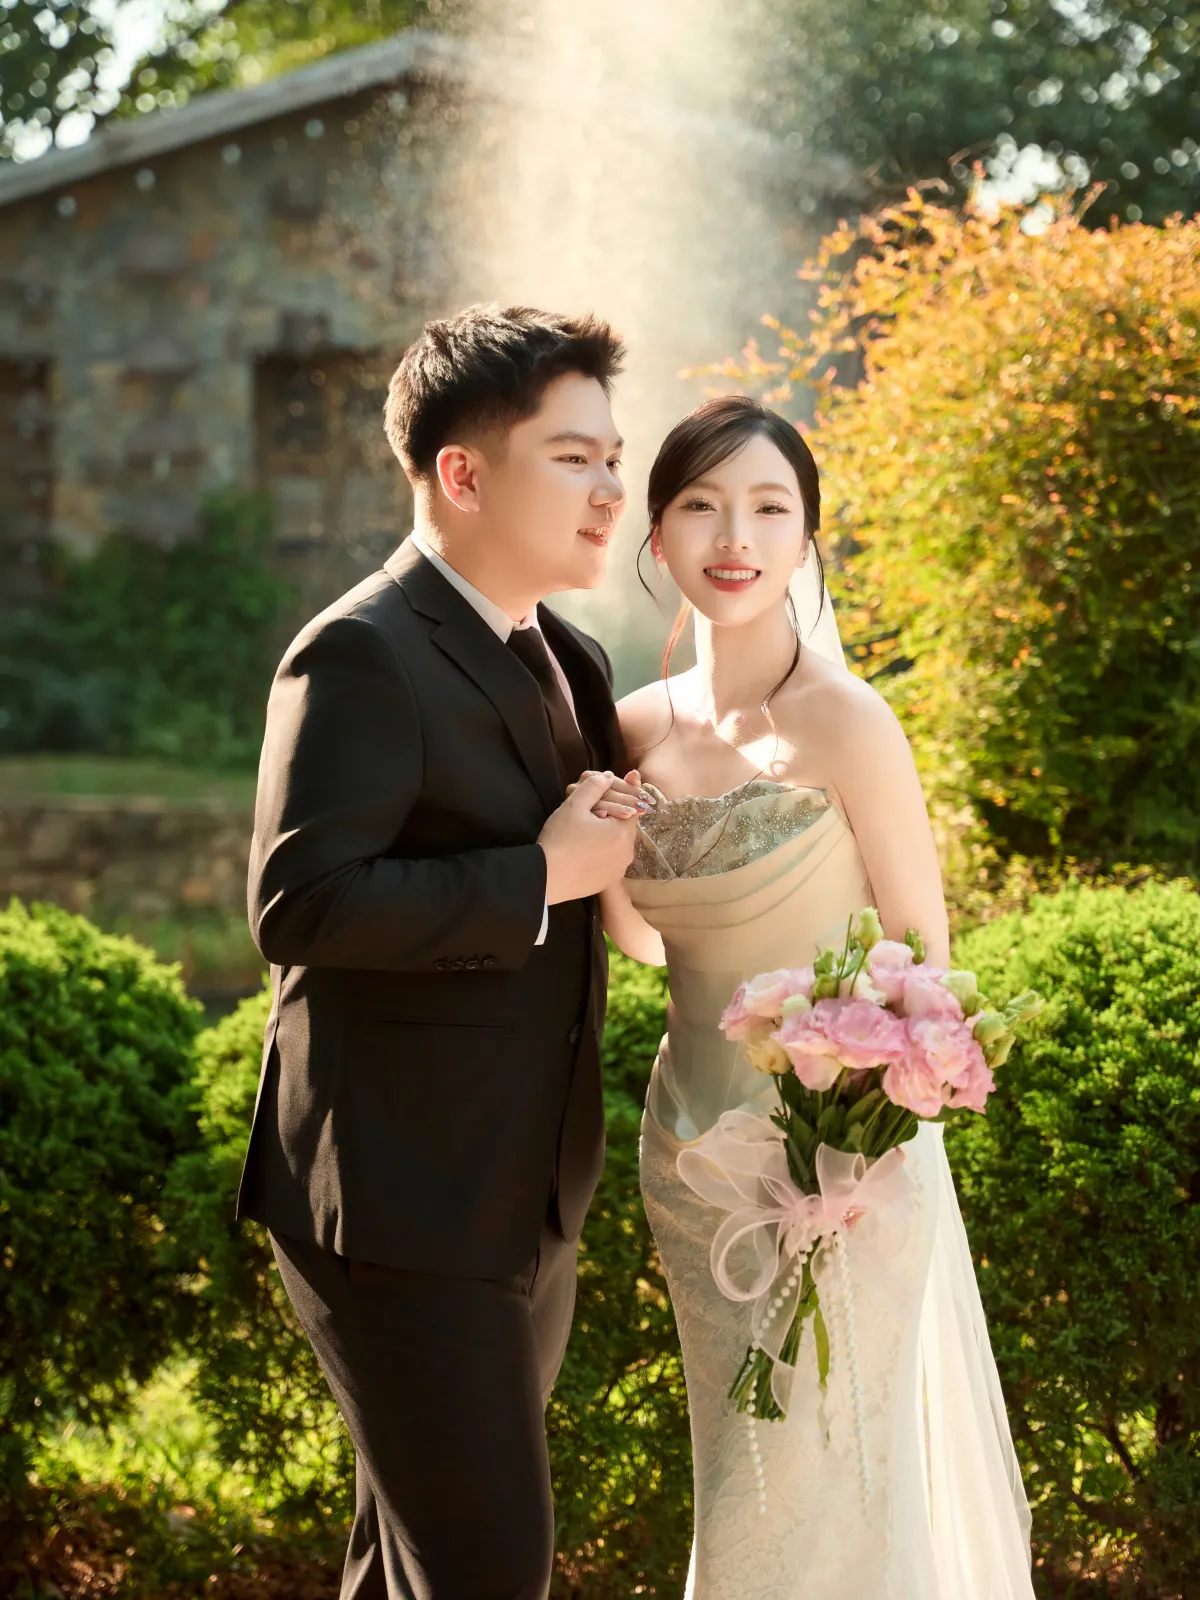
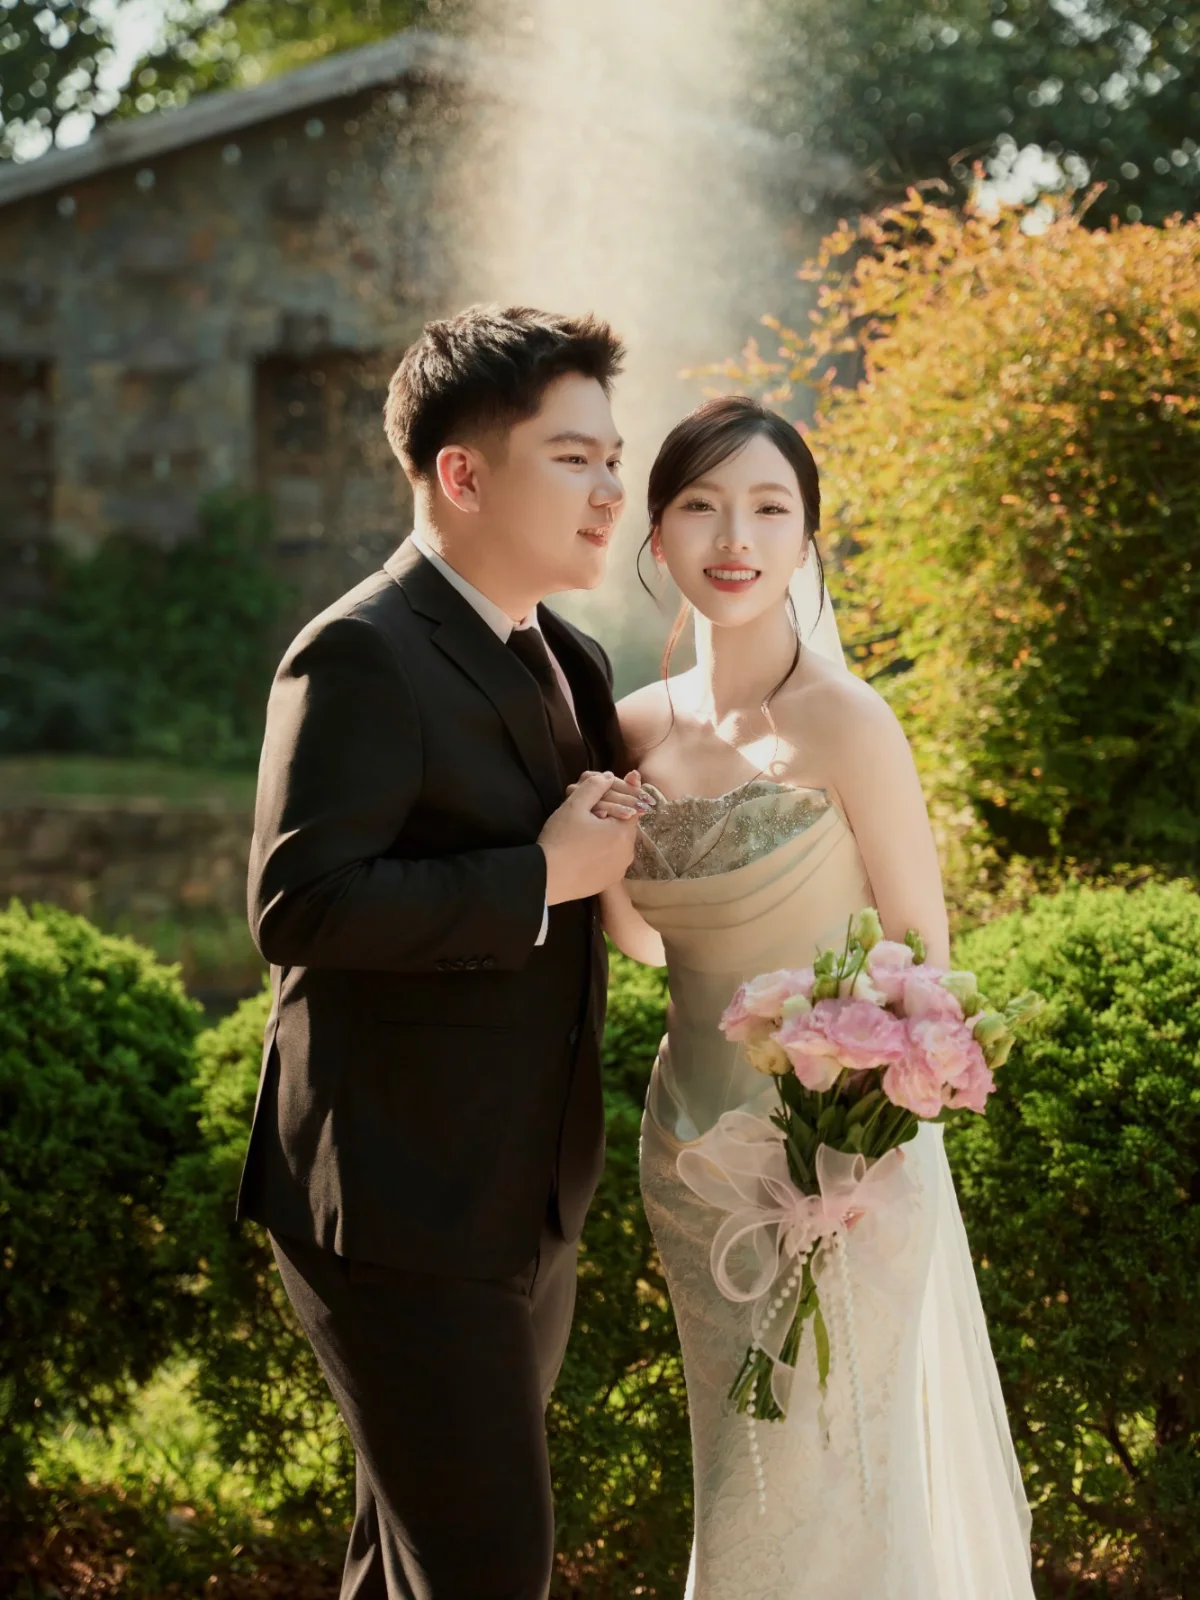
Use the softer edit of the cover photo
The couple's own edit tones down the greens and brightness. Cropped
to the arch's 3:4 and saved at 161 KB.

diff --git a/index.html b/index.html
@@ -25,7 +25,7 @@
   <link rel="stylesheet" href="https://fonts.googleapis.com/css2?family=Be+Vietnam+Pro:wght@300;400;500&family=Cormorant+Garamond:ital,wght@0,300;0,400;0,500;1,400&family=Great+Vibes&display=swap">
   <!-- Song Hỷ glyph only: the text= parameter keeps this font download to a few KB. -->
   <link rel="stylesheet" href="https://fonts.googleapis.com/css2?family=Noto+Serif+TC:wght@300&text=%E5%9B%8D&display=swap">
-  <link rel="stylesheet" href="assets/css/style.css?v=1792920000">
+  <link rel="stylesheet" href="assets/css/style.css?v=1792930000">
 </head>
 <body class="is-locked">
 
@@ -257,9 +257,9 @@
 
   <noscript><p class="noscript">Vui lòng bật JavaScript để xem thiệp. / Please enable JavaScript to view this invitation.</p></noscript>
 
-  <script src="config.js?v=1792920000"></script>
-  <script src="assets/js/album.js?v=1792920000"></script>
-  <script src="assets/js/sketches.js?v=1792920000"></script>
-  <script src="assets/js/main.js?v=1792920000"></script>
+  <script src="config.js?v=1792930000"></script>
+  <script src="assets/js/album.js?v=1792930000"></script>
+  <script src="assets/js/sketches.js?v=1792930000"></script>
+  <script src="assets/js/main.js?v=1792930000"></script>
 </body>
 </html>
